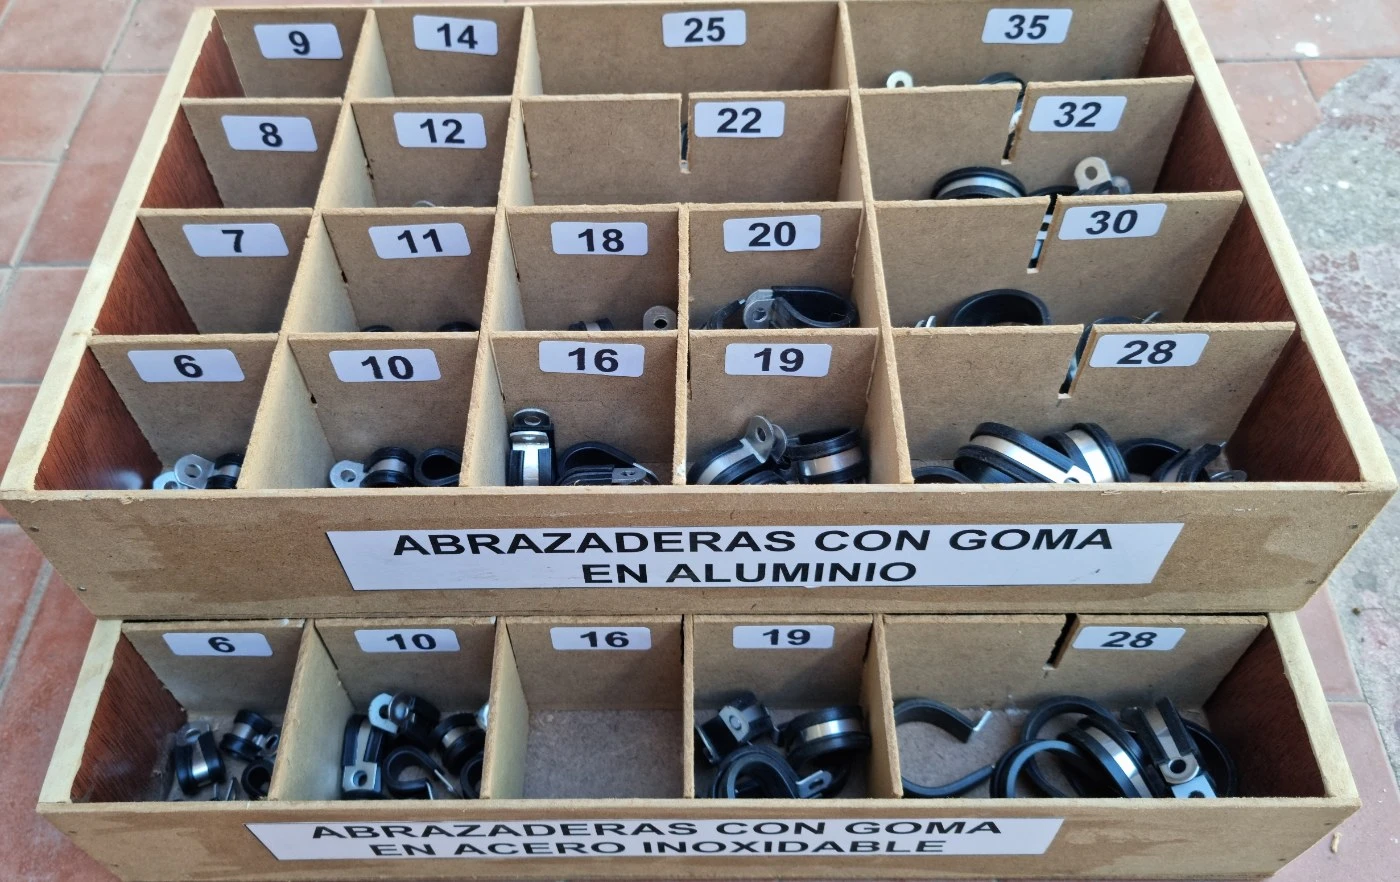
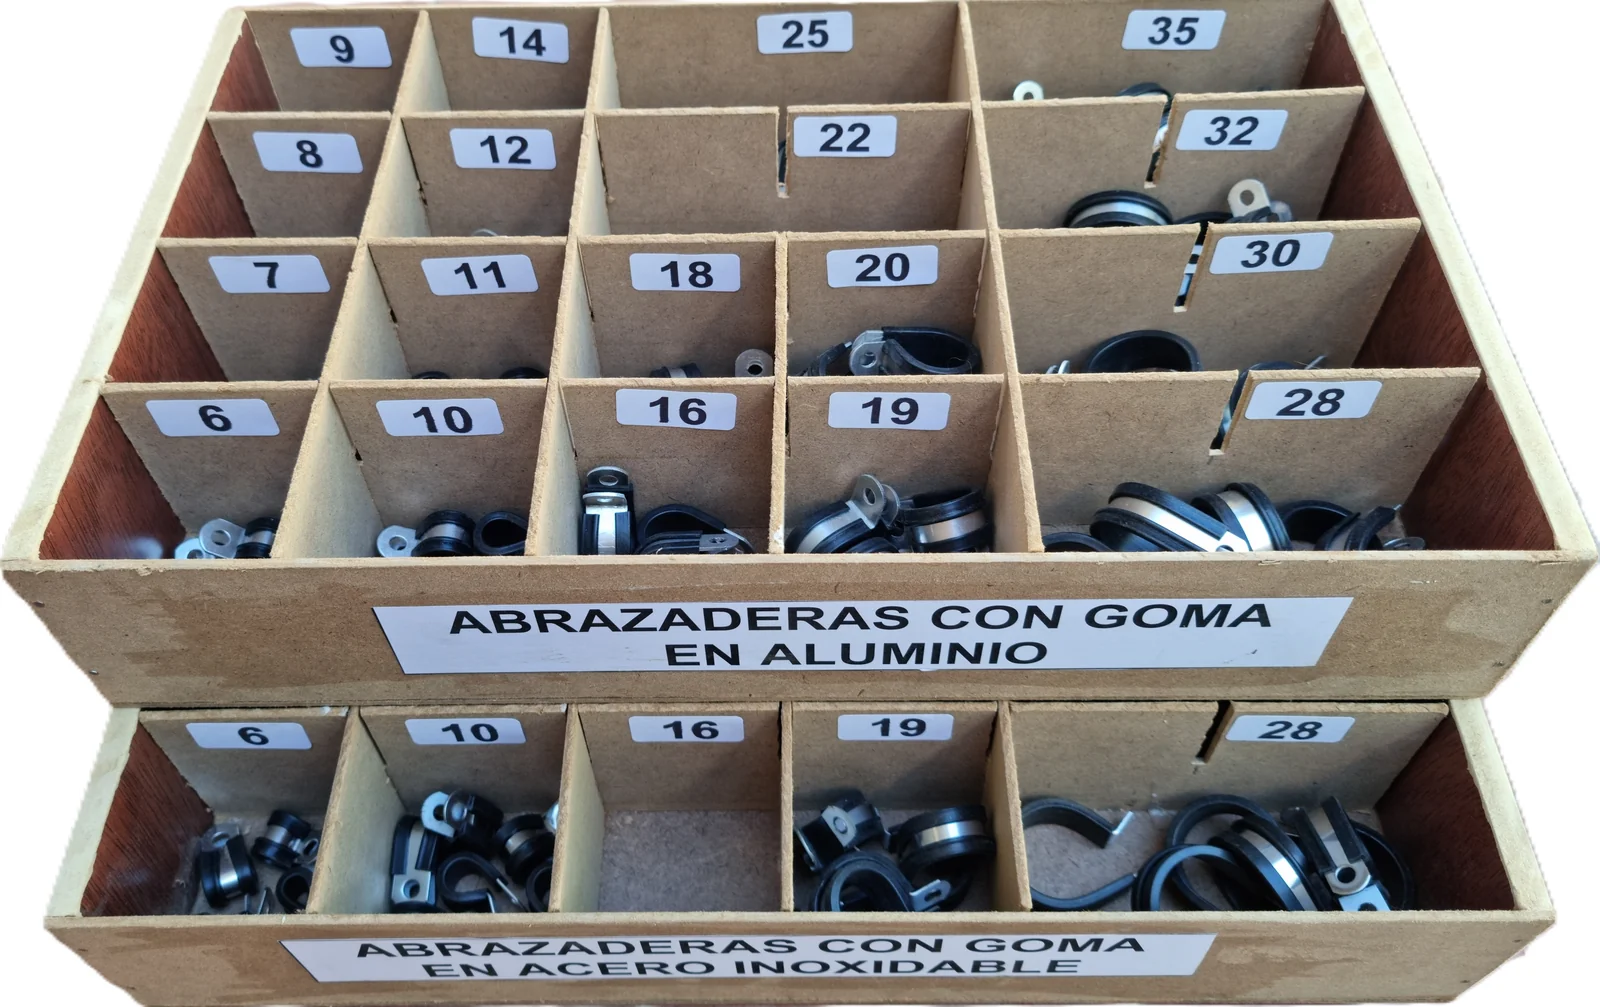
feat: reemplaza 15 gavetas en mala calidad y elimina placeholders Photoroom
- 7 gavetas con webp en mala calidad reemplazadas: s11, s12, s32, s33, s34, s36, s78
- 8 surtidos RE-* ahora apuntan a sus gavetas definitivas en lugar del placeholder Photoroom: s65, s67, s69, s70, s71, s72, s73, s76
- s78_gavetas (RE-UNO-01) que estaba vacío ahora tiene foto
- Borra los 8 archivos IMG-20260508-WAxxxx-Photoroom.png ya no usados
- s36_gavetas redimensionada de 9844x6200 a 1600px de ancho
- Todas convertidas a .webp calidad 85 (~38MB -> ~5.5MB)

Sigue pendiente: s51_gavetas (RES. COMP.)

diff --git a/surtidos-data.js b/surtidos-data.js
@@ -402,7 +402,7 @@ const SURTIDOS = [
     piezas: 89,
     foto_exhibidor: "./img/s67_exhibidor.webp",
     foto_card: "./img/s67_card.webp",
-    foto_gavetas: "./img/IMG-20260508-WA0104-Photoroom.png",
+    foto_gavetas: "./img/s67_gavetas.webp",
     incluye: ["1 exhibidor con su protector", "1 gaveta codificada", "89 piezas totales", "Libre reposición"],
     tabla: null,
     cant_uniforme: "2 - 1 piezas de c/u"
@@ -415,7 +415,7 @@ const SURTIDOS = [
     piezas: 106,
     foto_exhibidor: "./img/s65_exhibidor.webp",
     foto_card: "./img/s65_card.webp",
-    foto_gavetas: "./img/IMG-20260508-WA0091-Photoroom.png",
+    foto_gavetas: "./img/s65_gavetas.webp",
     incluye: ["1 exhibidor", "1 gaveta", "106 piezas totales", "10 m de cada manguera", "Libre reposición"],
     tabla: null,
     cant_uniforme: "4 piezas de c/u"
@@ -534,7 +534,7 @@ const SURTIDOS = [
     piezas: 60,
     foto_exhibidor: "./img/s72_exhibidor.webp",
     foto_card: "./img/s72_card.webp",
-    foto_gavetas: "./img/IMG-20260508-WA0099-Photoroom.png",
+    foto_gavetas: "./img/s72_gavetas.webp",
     incluye: ["1 exhibidor con su protector", "1 gaveta codificada", "60 piezas totales", "Libre reposición"],
     tabla: null,
     cant_uniforme: "2 piezas de c/u"
@@ -547,7 +547,7 @@ const SURTIDOS = [
     piezas: 56,
     foto_exhibidor: "./img/s73_exhibidor.webp",
     foto_card: "./img/s73_card.webp",
-    foto_gavetas: "./img/IMG-20260508-WA0097-Photoroom.png",
+    foto_gavetas: "./img/s73_gavetas.webp",
     incluye: ["1 exhibidor con su protector", "1 gaveta codificada", "56 piezas totales", "Libre reposición"],
     tabla: null,
     cant_uniforme: "2 piezas de c/u"
@@ -771,7 +771,7 @@ const SURTIDOS = [
     piezas: 39,
     foto_exhibidor: "./img/s78_exhibidor.webp",
     foto_card: "./img/s78_card.webp",
-    foto_gavetas: "",
+    foto_gavetas: "./img/s78_gavetas.webp",
     incluye: ["1 exhibidor con su protector", "1 gaveta codificada", "39 piezas totales", "Libre reposición"],
     tabla: null,
     cant_uniforme: "3 piezas de c/u"
@@ -784,7 +784,7 @@ const SURTIDOS = [
     piezas: 49,
     foto_exhibidor: "./img/s69_exhibidor.webp",
     foto_card: "./img/s69_card.webp",
-    foto_gavetas: "./img/IMG-20260508-WA0095-Photoroom.png",
+    foto_gavetas: "./img/s69_gavetas.webp",
     incluye: ["1 exhibidor con su protector", "1 gaveta codificada", "49 piezas totales", "Libre reposición"],
     tabla: null,
     cant_uniforme: "2 piezas de c/u"
@@ -928,7 +928,7 @@ const SURTIDOS = [
     piezas: 82,
     foto_exhibidor: "./img/s70_exhibidor.webp",
     foto_card: "./img/s70_card.webp",
-    foto_gavetas: "./img/IMG-20260508-WA0101-Photoroom.png",
+    foto_gavetas: "./img/s70_gavetas.webp",
     incluye: ["1 exhibidor con su protector", "1 gaveta codificada", "82 piezas totales", "Libre reposición"],
     tabla: null,
     cant_uniforme: "2 piezas de c/u"
@@ -941,7 +941,7 @@ const SURTIDOS = [
     piezas: 55,
     foto_exhibidor: "./img/s71_exhibidor.webp",
     foto_card: "./img/s71_card.webp",
-    foto_gavetas: "./img/IMG-20260508-WA0103-Photoroom.png",
+    foto_gavetas: "./img/s71_gavetas.webp",
     incluye: ["1 exhibidor con su protector", "1 gaveta codificada", "55 piezas totales", "Libre reposición"],
     tabla: null,
     cant_uniforme: "2 piezas de c/u"
@@ -967,7 +967,7 @@ const SURTIDOS = [
     piezas: 125,
     foto_exhibidor: "./img/s76_exhibidor.webp",
     foto_card: "./img/s76_card.webp",
-    foto_gavetas: "./img/IMG-20260508-WA0093-Photoroom.png",
+    foto_gavetas: "./img/s76_gavetas.webp",
     incluye: ["1 exhibidor con su protector", "1 gaveta codificada", "125 piezas totales", "Libre reposición"],
     tabla: null,
     cant_uniforme: "4 - 3 piezas de c/u"
